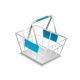
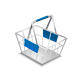
Better keyword coloring
Also, darker icons

Changed region(s): [[0.525, 0.35, 0.725, 0.525], [0.3, 0.475, 0.5, 0.675], [0.45, 0.2, 0.625, 0.275]]

diff --git a/atslegvards.php b/atslegvards.php
@@ -40,6 +40,7 @@ echo "<tr>
 <th>Tvīts</th>
 <th>Tvītots</th>
 </tr>";
+$txtCol = "#229cec";
 while($r=mysqli_fetch_array($vardi)){
 	$tvits = $r["tvits"];
 	$niks = $r["screen_name"];
@@ -51,14 +52,15 @@ while($r=mysqli_fetch_array($vardi)){
 	if (preg_match_all('/@[^[:space:]]+/', $teksts, $matches)) {
 		foreach ($matches[0] as $match){
 			$teksts = str_replace(trim($match), '<a style="text-decoration:none;color:#658304;" href="/draugs/'.str_replace('@','',trim($match)).'">'.trim($match).'</a> ', $teksts);
+			
 		}
 	}
-	$teksts = str_replace($vards, '<span style="font-weight: bold; text-decoration:none;color: red;">'.$vards.'</span>', $teksts);
-	$teksts = str_replace($tlvards, '<span style="font-weight: bold; text-decoration:none;color: red;">'.$tlvards.'</span>', $teksts);
-	$teksts = str_replace($tl2vards, '<span style="font-weight: bold; text-decoration:none;color: red;">'.$tl2vards.'</span>', $teksts);
-	$teksts = str_replace($svards, '<span style="font-weight: bold; text-decoration:none;color: red;">'.$svards.'</span>', $teksts);
-	$teksts = str_replace($tlsvards, '<span style="font-weight: bold; text-decoration:none;color: red;">'.$tlsvards.'</span>', $teksts);
-	$teksts = str_replace($tl2svards, '<span style="font-weight: bold; text-decoration:none;color: red;">'.$tl2svards.'</span>', $teksts);
+	$teksts = str_replace($vards, '<span style="font-weight: bold; text-decoration:none;color: '.$txtCol.';">'.$vards.'</span>', $teksts);
+	$teksts = str_replace($tlvards, '<span style="font-weight: bold; text-decoration:none;color: '.$txtCol.';">'.$tlvards.'</span>', $teksts);
+	$teksts = str_replace($tl2vards, '<span style="font-weight: bold; text-decoration:none;color: '.$txtCol.';">'.$tl2vards.'</span>', $teksts);
+	$teksts = str_replace($svards, '<span style="font-weight: bold; text-decoration:none;color: '.$txtCol.';">'.$svards.'</span>', $teksts);
+	$teksts = str_replace($tlsvards, '<span style="font-weight: bold; text-decoration:none;color: '.$txtCol.';">'.$tlsvards.'</span>', $teksts);
+	$teksts = str_replace($tl2svards, '<span style="font-weight: bold; text-decoration:none;color: '.$txtCol.';">'.$tl2svards.'</span>', $teksts);
 	
 	$datums = $r["created_at"];
 	if ($krasa==TRUE) {$kr=" class='even'";}else{$kr="";}

diff --git a/tviti.php b/tviti.php
@@ -1,4 +1,7 @@
 <?php
+error_reporting(E_ALL);
+ini_set('display_errors', 1);
+ini_set('display_startup_errors', 1);
 include "includes/init_sql.php";
 include "classify/evaluate_bayes.php";
 
@@ -95,17 +98,15 @@ while($p=mysqli_fetch_array($latest)){
 	#Šo vajadzētu visur...
 	
 	foreach($validFood as $foodItem){
-		if(
-			(
-				preg_match("/(?<=[\W])$foodItem(?=[\W])/", $text) || 
-				preg_match("/(?<=[\W])$foodItem$/", $text) || 
-				preg_match("/^$foodItem(?=[\W])/", $text)
-			) && 
-			!preg_match("/(?<=\>)$foodItem/", $text) &&
-			!preg_match("/$foodItem(?=\<)/", $text)
-			
-			){
-			$text = preg_replace("/(?<=[\W])($foodItem)(?=[\W])/", '<a style="text-decoration:none;color:#0C95CF;" href="/atslegvards/'.$foodItem.'">'.$foodItem.'</a>', $text,1);
+		if(!preg_match("/(?<=\>)$foodItem/", $text) && !preg_match("/$foodItem(?=\<)/", $text)){
+			if(preg_match("/(?<=[\W])$foodItem(?=[\W])/", $text))
+				$text = preg_replace("/(?<=[\W])($foodItem)(?=[\W])/", '<a style="text-decoration:none;color:#0C95CF;" href="/atslegvards/'.$foodItem.'">'.$foodItem.'</a>', $text,1);
+			elseif(preg_match("/(?<=[\W])$foodItem$/", $text))
+				$text = preg_replace("/(?<=[\W])($foodItem)$/", '<a style="text-decoration:none;color:#0C95CF;" href="/atslegvards/'.$foodItem.'">'.$foodItem.'</a>', $text,1);
+			elseif(preg_match("/^$foodItem(?=[\W])/", $text))
+				$text = preg_replace("/^($foodItem)(?=[\W])/", '<a style="text-decoration:none;color:#0C95CF;" href="/atslegvards/'.$foodItem.'">'.$foodItem.'</a>', $text,1);
+		}else{
+			// $text = str_replace($foodItem, '<span style="text-decoration:none;color:#658304;">'.$foodItem.'</span>', $text);
 		}
 	}
 	$matches = array();

diff --git a/vards.php b/vards.php
@@ -1,4 +1,7 @@
 <?php
+ini_set('display_errors', 1);
+ini_set('display_startup_errors', 1);
+error_reporting(E_ERROR);
 include_once("includes/arc2/ARC2.php");
 $vards=urldecode($_GET['vards']);
 //Iz DB
